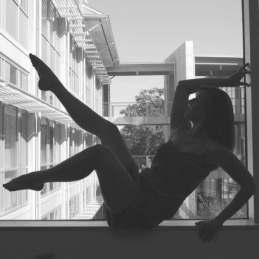
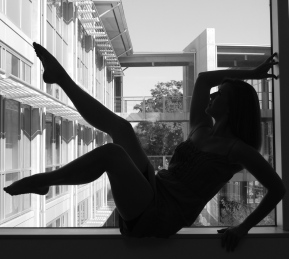
amelia: using edited version of window image

diff --git a/gae/amelia-reiser/assets/index.html b/gae/amelia-reiser/assets/index.html
@@ -27,7 +27,7 @@
 
         .montage {
             margin: 0 auto;
-            width: 815px;
+            width: 845px;
             height: 259px;
             position: relative;
         }
@@ -59,8 +59,8 @@
     <div style="position: absolute; top: 0; left: 0;"><img src="images/a.jpg" alt="Amelia Pose #1"/></div>
     <div style="position: absolute; top: 0; left: 115px;"><img src="images/b.jpg" alt="Amelia Pose #2"/></div>
     <div style="position: absolute; top: 0; left: 256px;"><img src="images/c.jpg" alt="Amelia Pose #3"/></div>
-    <div style="position: absolute; top: 0; left: 516px;"><img src="images/d.jpg" alt="Amelia Pose #4"/></div>
-    <div style="position: absolute; top: 0; left: 715px;"><img src="images/e.jpg" alt="Amelia Pose #5"/></div>
+    <div style="position: absolute; top: 0; left: 546px;"><img src="images/d.jpg" alt="Amelia Pose #4"/></div>
+    <div style="position: absolute; top: 0; left: 745px;"><img src="images/e.jpg" alt="Amelia Pose #5"/></div>
 </div>
 
 <div class="nav">
